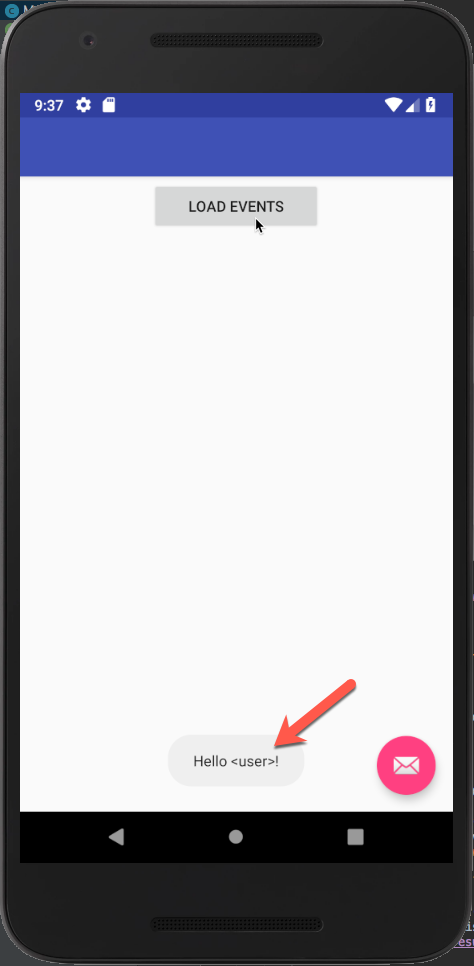
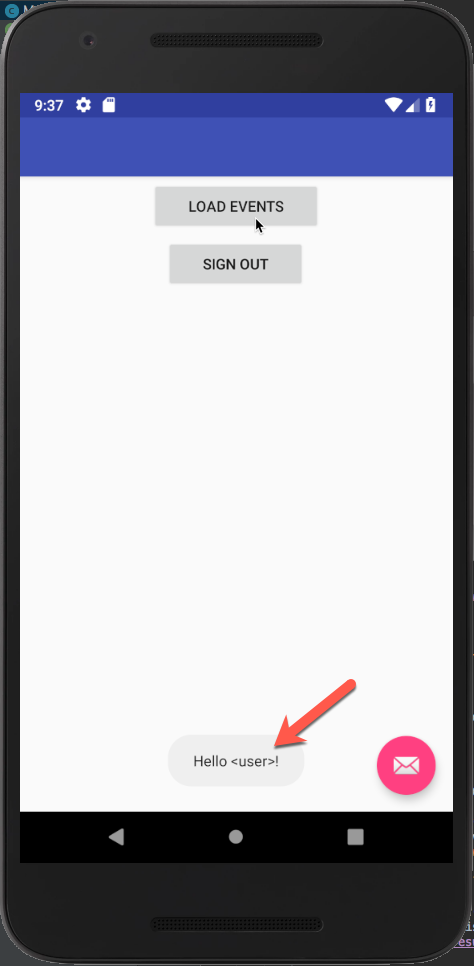
added signout button per review feedback

Changed region(s): [[0.3544, 0.2484, 0.6498, 0.3106]]

diff --git a/Demos/04-add-msgraph/app/src/main/java/com/microsoft/nativeo365calendarevents/MainActivity.java b/Demos/04-add-msgraph/app/src/main/java/com/microsoft/nativeo365calendarevents/MainActivity.java
@@ -60,6 +60,13 @@ public class MainActivity extends AppCompatActivity implements MSALAuthenticatio
       }
     });
 
+    (findViewById(R.id.btn_signOut)).setOnClickListener(new View.OnClickListener() {
+      @Override
+      public void onClick(View view) {
+        onSignout();
+      }
+    });
+
     setPanelVisibility(true, false, false);
   }
 
@@ -88,6 +95,13 @@ public class MainActivity extends AppCompatActivity implements MSALAuthenticatio
   private void onSignin() {
     AuthenticationController authController = AuthenticationController.getInstance(this);
     authController.doAcquireToken(this, this);
+  }
+
+  private void onSignout() {
+    AuthenticationController authController = AuthenticationController.getInstance(this);
+    authController.signout();
+
+    setPanelVisibility(true, false, false);
   }
 
   private void onLoadEvents() {

diff --git a/Demos/03-add-aad-auth/app/src/main/java/com/microsoft/nativeo365calendarevents/AuthenticationController.java b/Demos/03-add-aad-auth/app/src/main/java/com/microsoft/nativeo365calendarevents/AuthenticationController.java
@@ -34,6 +34,10 @@ public class AuthenticationController {
     return INSTANCE;
   }
 
+  public static synchronized void resetInstance() {
+    INSTANCE = null;
+  }
+
   public String getAccessToken() {
     return mAuthResult.getAccessToken();
   }
@@ -45,6 +49,12 @@ public class AuthenticationController {
   public void doAcquireToken(Activity activity, final MSALAuthenticationCallback msalCallback) {
     mActivityCallback = msalCallback;
     mApplication.acquireToken(activity, Constants.SCOPES, getAuthInteractiveCallback());
+  }
+
+  public void signout() {
+    mApplication.remove(mAuthResult.getUser());
+    // Reset the AuthenticationManager object
+    AuthenticationController.resetInstance();
   }
 
   private AuthenticationCallback getAuthInteractiveCallback() {

diff --git a/Demos/04-add-msgraph/app/src/main/java/com/microsoft/nativeo365calendarevents/AuthenticationController.java b/Demos/04-add-msgraph/app/src/main/java/com/microsoft/nativeo365calendarevents/AuthenticationController.java
@@ -33,6 +33,10 @@ public class AuthenticationController {
     return INSTANCE;
   }
 
+  public static synchronized void resetInstance() {
+    INSTANCE = null;
+  }
+
   public String getAccessToken() {
     return mAuthResult.getAccessToken();
   }
@@ -44,6 +48,12 @@ public class AuthenticationController {
   public void doAcquireToken(Activity activity, final MSALAuthenticationCallback msalCallback) {
     mActivityCallback = msalCallback;
     mApplication.acquireToken(activity, Constants.SCOPES, getAuthInteractiveCallback());
+  }
+
+  public void signout() {
+    mApplication.remove(mAuthResult.getUser());
+    // Reset the AuthenticationManager object
+    AuthenticationController.resetInstance();
   }
 
   private AuthenticationCallback getAuthInteractiveCallback() {

diff --git a/Demos/03-add-aad-auth/app/src/main/java/com/microsoft/nativeo365calendarevents/MainActivity.java b/Demos/03-add-aad-auth/app/src/main/java/com/microsoft/nativeo365calendarevents/MainActivity.java
@@ -53,12 +53,26 @@ public class MainActivity extends AppCompatActivity implements MSALAuthenticatio
       }
     });
 
+    (findViewById(R.id.btn_signOut)).setOnClickListener(new View.OnClickListener() {
+      @Override
+      public void onClick(View view) {
+        onSignout();
+      }
+    });
+
     setPanelVisibility(true, false, false);
   }
 
   private void onSignin() {
     AuthenticationController authController = AuthenticationController.getInstance(this);
     authController.doAcquireToken(this, this);
+  }
+
+  private void onSignout() {
+    AuthenticationController authController = AuthenticationController.getInstance(this);
+    authController.signout();
+
+    setPanelVisibility(true, false, false);
   }
 
   private void onLoadEvents() {

diff --git a/Demos/02-create-app/app/src/main/java/com/microsoft/nativeo365calendarevents/MainActivity.java b/Demos/02-create-app/app/src/main/java/com/microsoft/nativeo365calendarevents/MainActivity.java
@@ -45,13 +45,24 @@ public class MainActivity extends AppCompatActivity {
       }
     });
 
+    (findViewById(R.id.btn_signOut)).setOnClickListener(new View.OnClickListener() {
+      @Override
+      public void onClick(View view) {
+        onSignout();
+      }
+    });
+
     setPanelVisibility(true, false, false);
   }
 
   private void onSignin() {
     Toast.makeText(MainActivity.this, "Hello <user>!", Toast.LENGTH_LONG).show();
 
-    setPanelVisibility(false,true,false);
+    setPanelVisibility(false, true, false);
+  }
+
+  private void onSignout() {
+    setPanelVisibility(true, false, false);
   }
 
   private void onLoadEvents() {

diff --git a/Lab.md b/Lab.md
@@ -155,7 +155,18 @@ The first step is to create the shell of the user experience; creating a workabl
                 android:paddingBottom="5dp"
                 android:paddingLeft="35dp"
                 android:paddingRight="35dp"
-                />
+              />
+            <Button
+                android:layout_width="wrap_content"
+                android:layout_height="wrap_content"
+                android:text="Sign out"
+                android:id="@+id/btn_signOut"
+                android:layout_gravity="center"
+                android:paddingTop="5dp"
+                android:paddingBottom="5dp"
+                android:paddingLeft="35dp"
+                android:paddingRight="35dp"
+              />
         </LinearLayout>
         <LinearLayout
             android:layout_width="match_parent"
@@ -215,6 +226,10 @@ The first step is to create the shell of the user experience; creating a workabl
           setPanelVisibility(false,true,false);
         }
 
+        private void onSignout() {
+          setPanelVisibility(true, false, false);
+        }
+
         private void onLoadEvents() {
           Toast.makeText(MainActivity.this, 
             "Successfully loaded events from Office 365 calendar", 
@@ -244,6 +259,13 @@ The first step is to create the shell of the user experience; creating a workabl
           @Override
           public void onClick(View view) {
             onSignin();
+          }
+        });
+
+        (findViewById(R.id.btn_signOut)).setOnClickListener(new View.OnClickListener() {
+          @Override
+          public void onClick(View view) {
+            onSignout();
           }
         });
 
@@ -414,6 +436,10 @@ With the application created, now extend it to support authentication with Azure
           }
           return INSTANCE;
         }
+
+        public static synchronized void resetInstance() {
+          INSTANCE = null;
+        }
         ```
 
     1. Add the following code to the `AuthenticationController` class to provide options for getting in instance of the Azure AD public client and access token:
@@ -460,6 +486,16 @@ With the application created, now extend it to support authentication with Azure
               }
             }
           };
+        }
+        ```
+
+    1. Add the following code to the `AuthenticationController` class to sign out of the application:
+
+        ```java
+        public void signout() {
+          mApplication.remove(mAuthResult.getUser());
+          // Reset the AuthenticationManager object
+          AuthenticationController.resetInstance();
         }
         ```
 
@@ -515,13 +551,20 @@ With the application created, now extend it to support authentication with Azure
         //endregion
         ```
 
-1. Wire up the signin button to the authentication process:
+1. Wire up the signin and signout buttons to the authentication process:
     1. Replace the contents of the `onSignin()` method to the following code:
 
     ```java
     private void onSignin() {
       AuthenticationController authController = AuthenticationController.getInstance(this);
       authController.doAcquireToken(this, this);
+    }
+
+    private void onSignout() {
+      AuthenticationController authController = AuthenticationController.getInstance(this);
+      authController.signout();
+
+      setPanelVisibility(true, false, false);
     }
     ```
 
